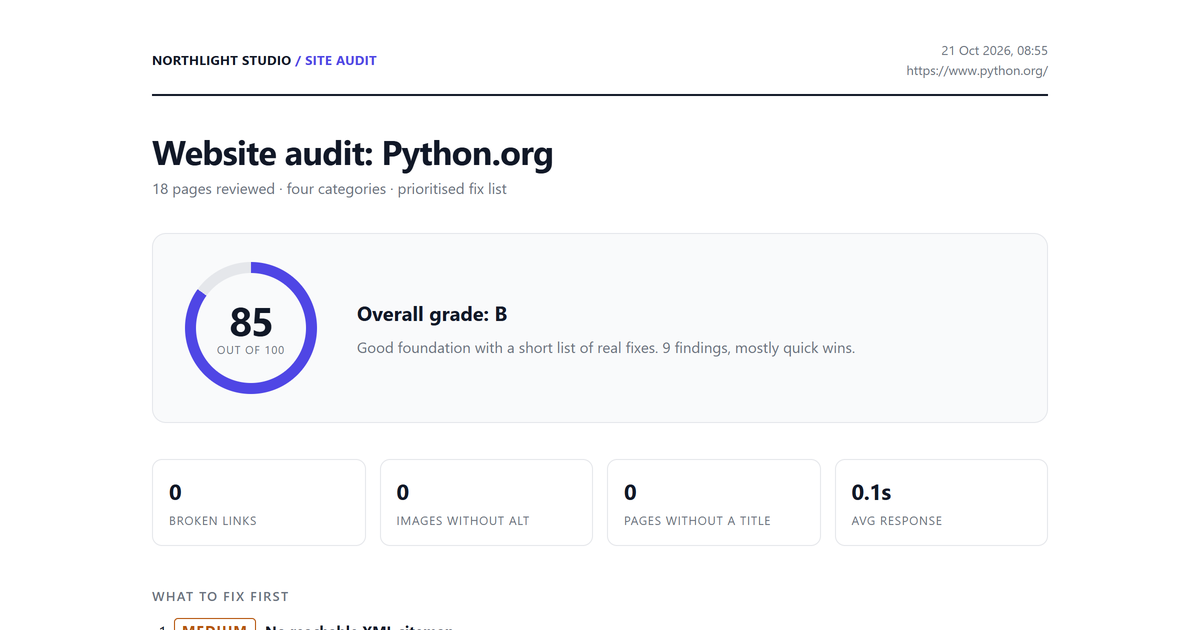
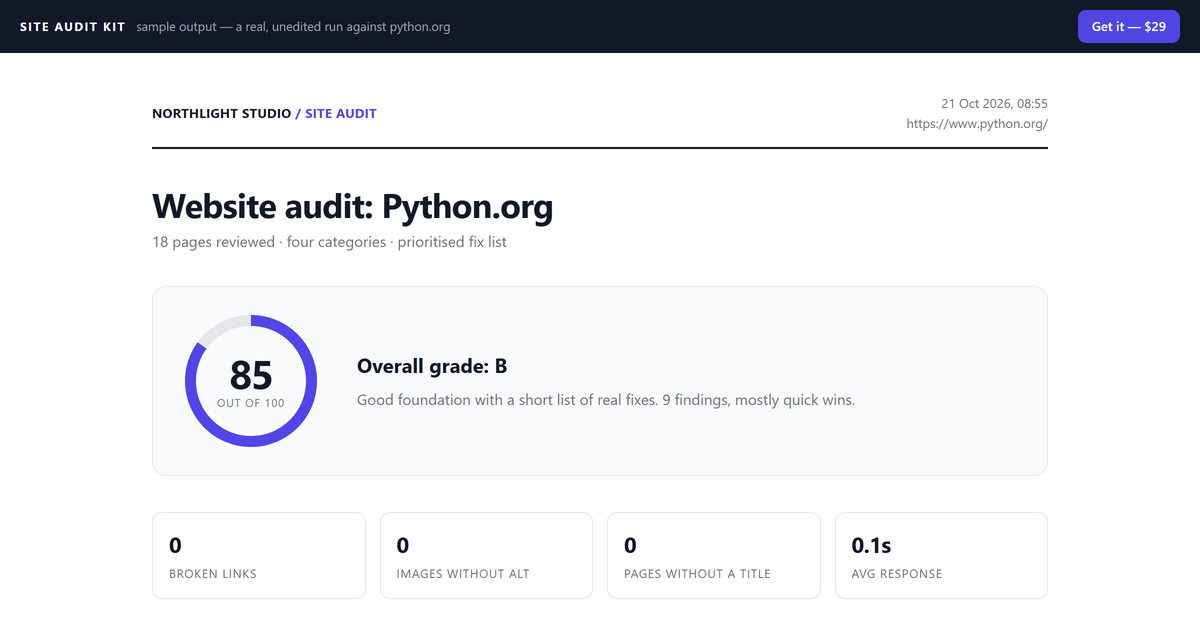
Sample page: count-free copy, social card as cover image

diff --git a/index.html b/index.html
@@ -85,13 +85,13 @@ footer{margin-top:48px;padding-top:18px;border-top:1px solid var(--line);
   .section{break-inside:avoid}
 }
 </style><!-- kit:sample-head -->
-<meta name="description" content="A real, unedited Site Audit Kit report: python.org, 85/100, nine findings, each with a plain-English fix. One Python file, 28 checks, white-label HTML you print to PDF.">
+<meta name="description" content="A real, unedited Site Audit Kit report: python.org, 85/100, nine findings, each with a plain-English fix. One Python file, a fixed set of checks across technical, SEO, performance and accessibility, white-label HTML you print to PDF.">
 <link rel="canonical" href="https://muxleet.github.io/site-audit-kit-sample/">
 <meta name="theme-color" content="#111827">
 <meta property="og:type" content="website">
 <meta property="og:site_name" content="Site Audit Kit">
 <meta property="og:title" content="Site Audit Kit — a real report (python.org, 85/100)">
-<meta property="og:description" content="One command wrote this page: 28 checks, nine findings, a plain-English fix next to each. Sample output from Site Audit Kit — one Python file, standard library only.">
+<meta property="og:description" content="One command wrote this page: nine findings, a plain-English fix next to each. Sample output from Site Audit Kit — one Python file, standard library only.">
 <meta property="og:url" content="https://muxleet.github.io/site-audit-kit-sample/">
 <meta property="og:image" content="https://muxleet.github.io/site-audit-kit-sample/cover.png">
 <meta property="og:image:width" content="1200">
@@ -99,7 +99,7 @@ footer{margin-top:48px;padding-top:18px;border-top:1px solid var(--line);
 <meta property="og:image:alt" content="Site Audit Kit report for python.org: 85 out of 100, grade B">
 <meta name="twitter:card" content="summary_large_image">
 <meta name="twitter:title" content="Site Audit Kit — a real report (python.org, 85/100)">
-<meta name="twitter:description" content="One command wrote this page: 28 checks, nine findings, a plain-English fix next to each.">
+<meta name="twitter:description" content="One command wrote this page: nine findings, a plain-English fix next to each.">
 <meta name="twitter:image" content="https://muxleet.github.io/site-audit-kit-sample/cover.png">
 <link rel="icon" href="cover.png">
 <style>
@@ -190,7 +190,7 @@ footer{margin-top:48px;padding-top:18px;border-top:1px solid var(--line);
 <div class="kit-cta">
   <div class="kit-cta-in">
     <h2>That report is one command.</h2>
-    <p>Site Audit Kit crawls a site, runs 28 checks across technical health, SEO, performance and accessibility, and writes this page with your logo on it. One Python file, standard library only — nothing to install, no account, no subscription.</p>
+    <p>Site Audit Kit crawls a site, runs a fixed set of checks across technical health, SEO, performance and accessibility, and writes this page with your name and colour on it. One Python file, standard library only — nothing to install, no account, no subscription.</p>
     <p class="kit-strong">Every finding is one you can defend in the meeting.</p>
     <a class="kit-btn kit-btn-lg" href="https://muxleet.gumroad.com/l/site-audit-kit?offer_code=LAUNCH&utm_source=sample&utm_medium=report">Get Site Audit Kit — $29</a>
     <p class="kit-fine">The link applies code LAUNCH for you: $29 for the first 20 copies, $39 after that &#183; 14-day refund &#183; &ldquo;Northlight Studio&rdquo; is a placeholder brand; yours replaces it.</p>
